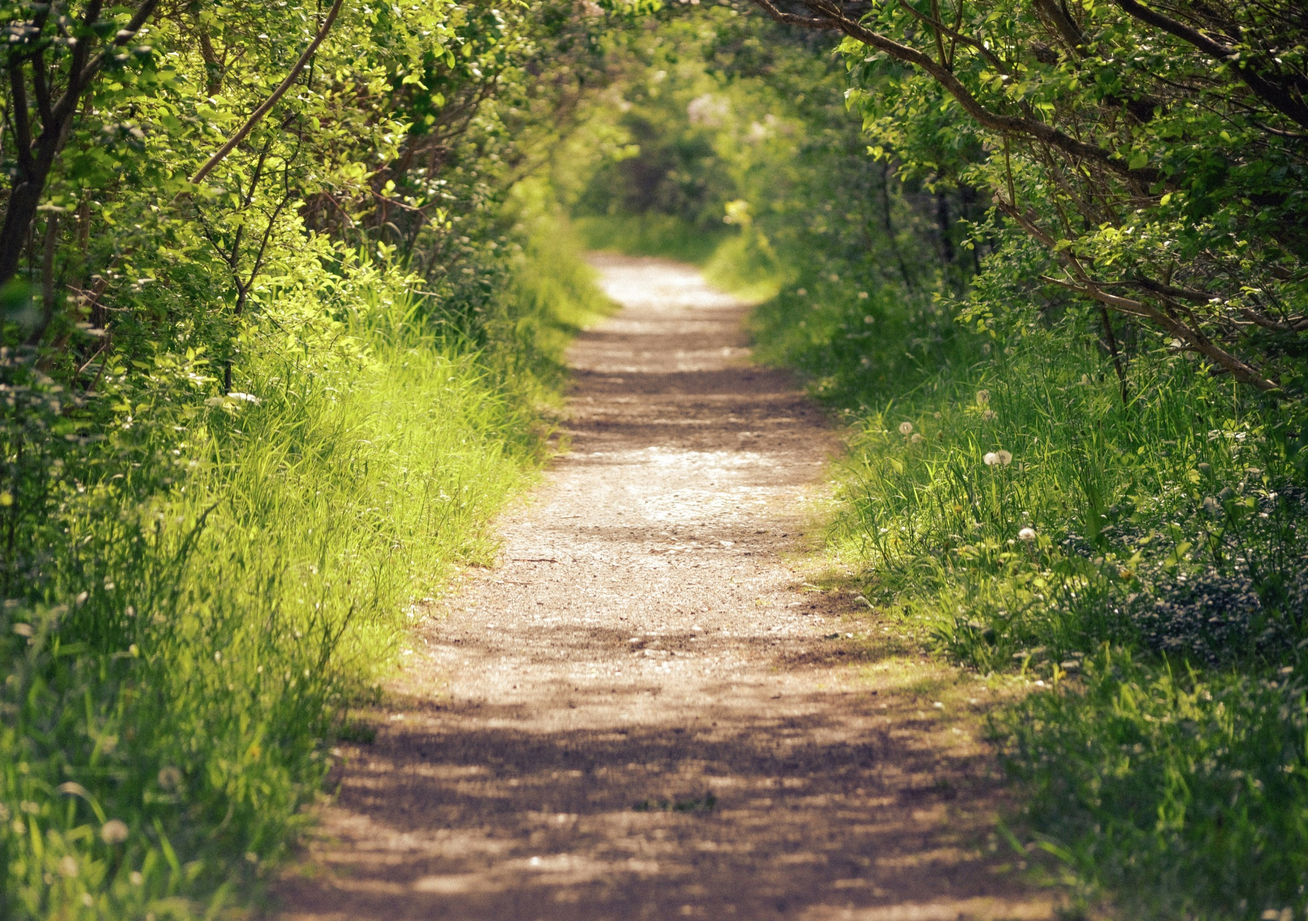
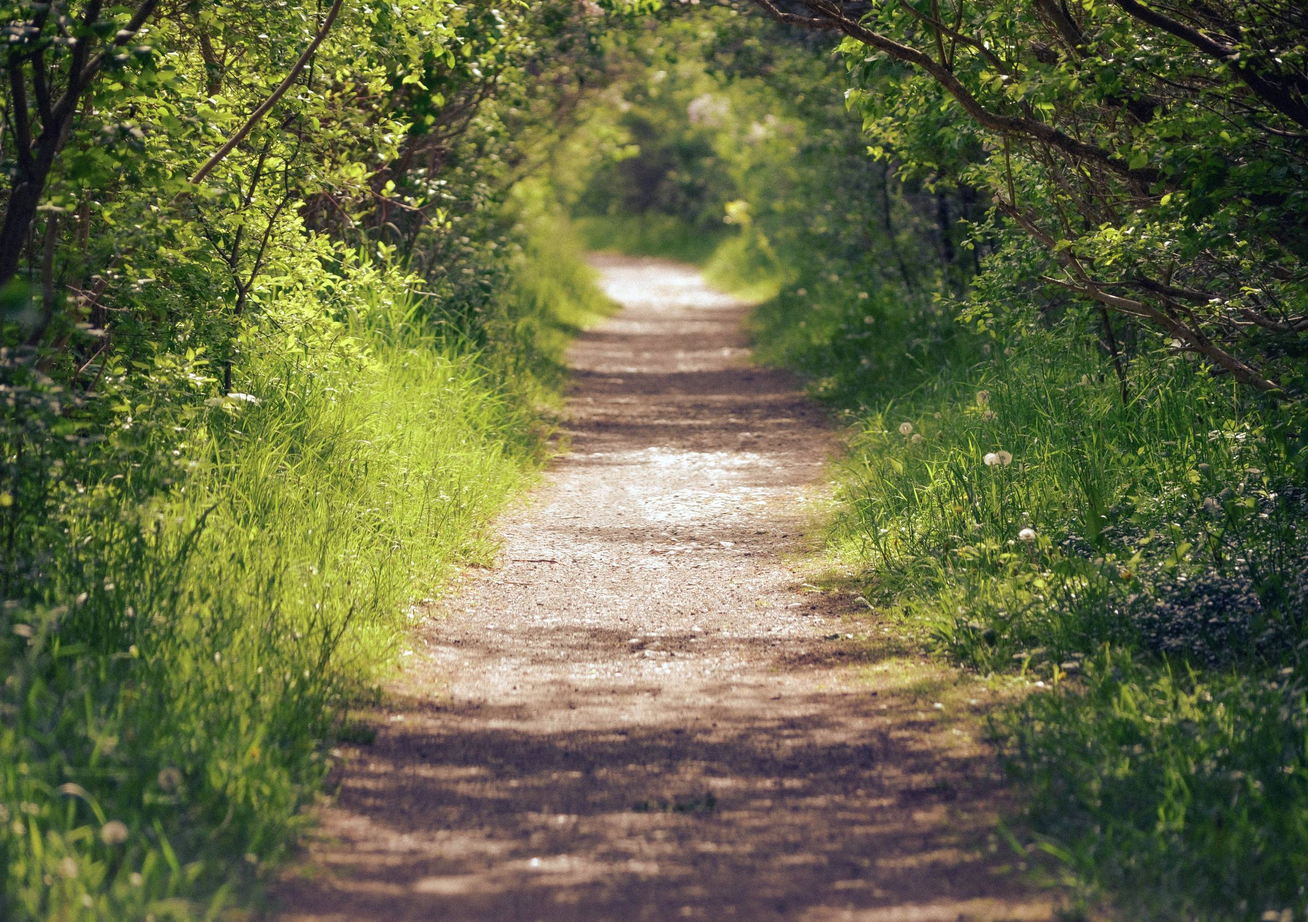
Figma colours for form background, right-side wave fade
- Bottom form photo colour-matched to the Figma fill adjustments
- Waves: Figma curves, right side fades from 80% of the width

diff --git a/index.html b/index.html
@@ -8,12 +8,12 @@
 <link rel="preconnect" href="https://fonts.googleapis.com">
 <link rel="preconnect" href="https://fonts.gstatic.com" crossorigin>
 <link href="https://fonts.googleapis.com/css2?family=DM+Sans:opsz,wght@9..40,400;9..40,500;9..40,600&family=Newsreader:opsz,wght@6..72,300;6..72,400&display=swap" rel="stylesheet">
-<link rel="stylesheet" href="css/tokens.css?v=202611270823">
-<link rel="stylesheet" href="css/images.css?v=202611270823">
-<link rel="stylesheet" href="css/components.css?v=202611270823">
-<link rel="stylesheet" href="css/player.css?v=202611270823">
-<link rel="stylesheet" href="css/sections.css?v=202611270823">
-<link rel="stylesheet" href="css/responsive.css?v=202611270823">
+<link rel="stylesheet" href="css/tokens.css?v=202611270837">
+<link rel="stylesheet" href="css/images.css?v=202611270837">
+<link rel="stylesheet" href="css/components.css?v=202611270837">
+<link rel="stylesheet" href="css/player.css?v=202611270837">
+<link rel="stylesheet" href="css/sections.css?v=202611270837">
+<link rel="stylesheet" href="css/responsive.css?v=202611270837">
 </head>
 <body>
 <div class="page">
@@ -272,12 +272,12 @@
   </div>
 </template>
 
-<script src="js/waves-data.js?v=202611270823"></script>
-<script src="js/waves.js?v=202611270823"></script>
+<script src="js/waves-data.js?v=202611270837"></script>
+<script src="js/waves.js?v=202611270837"></script>
 <script>window.HR_PLAYER_BARS = [9, 9, 10, 11, 12, 14, 17, 19, 22, 24, 26, 27, 28, 28, 28, 29, 30, 32, 34, 37, 39, 41, 43, 44, 46, 47, 48, 48, 44, 37, 26, 16, 11, 10, 10, 11, 13, 15, 18, 20, 23, 25, 27, 28, 28, 28, 28, 29, 31, 33, 35, 38, 40, 42, 44, 45, 46, 47, 48, 46, 41, 32, 21, 13, 10, 10, 11, 12, 14, 17, 19, 22, 24, 26, 27, 28, 28, 28, 29, 30, 32, 34, 37, 39, 41, 43, 44, 46, 47, 48, 48, 44, 37, 27, 16, 11, 10, 10, 11, 13, 15, 18, 20, 23, 25, 27, 28, 28, 28, 28, 29, 31, 33, 35, 38, 40, 42, 44, 45, 46, 47, 48, 46, 41, 31, 19, 12, 10, 10, 10, 10, 11, 11, 11, 10];</script>
-<script src="js/player.js?v=202611270823"></script>
-<script src="js/parallax.js?v=202611270823"></script>
-<script src="js/form.js?v=202611270823"></script>
-<script src="js/testimonial.js?v=202611270823"></script>
+<script src="js/player.js?v=202611270837"></script>
+<script src="js/parallax.js?v=202611270837"></script>
+<script src="js/form.js?v=202611270837"></script>
+<script src="js/testimonial.js?v=202611270837"></script>
 </body>
 </html>

diff --git a/js/waves.js b/js/waves.js
@@ -45,17 +45,11 @@
   // curve y in canvas coords = vy + ys[i] + frameTop (verified against the Figma render)
   function figmaY(l, i) { return l.vy + l.ys[i] + D.frameTop; }
 
-  // Vertical spread knob: 1 = exact Figma curves. Values above 1 open the strands
-  // further apart around the bundle's centre line at every x (shape is kept).
-  var SPREAD = 1;
-  var L = D.lines.length;
-  D.lines.forEach(function (l) { l.fy = new Array(N); });
-  for (var i = 0; i < N; i++) {
-    var m = 0;
-    D.lines.forEach(function (l) { m += figmaY(l, i); });
-    m /= L;
-    D.lines.forEach(function (l) { l.fy[i] = m + (figmaY(l, i) - m) * SPREAD; });
-  }
+  // Strand curves are exactly Figma's (fan / untwist experiments were rejected).
+  D.lines.forEach(function (l) {
+    l.fy = new Array(N);
+    for (var i = 0; i < N; i++) l.fy[i] = figmaY(l, i);
+  });
   function lineY(l, i) { return l.fy[i]; }
   D.lines.forEach(function (l) {
     var lo = Infinity, hi = -Infinity;

diff --git a/css/responsive.css b/css/responsive.css
@@ -11,11 +11,11 @@
 
 /* ---------- ≤1439: waves ----------
    Below 1440 the wave artwork keeps its size and is cropped at the sides, which
-   also crops its own edge fade. Fade the lines out at the screen edges instead. */
+   also crops its own edge fade. Fade the lines out at the screen edges instead (right side a bit further in). */
 @media (max-width: 1439px) {
   .listen__waves {
-    -webkit-mask-image: linear-gradient(to right, transparent 0, #000 15%, #000 85%, transparent 100%);
-            mask-image: linear-gradient(to right, transparent 0, #000 15%, #000 85%, transparent 100%);
+    -webkit-mask-image: linear-gradient(to right, transparent 0, #000 15%, #000 80%, transparent 100%);
+            mask-image: linear-gradient(to right, transparent 0, #000 15%, #000 80%, transparent 100%);
   }
 }
 

diff --git a/css/sections.css b/css/sections.css
@@ -49,6 +49,9 @@
 .listen__waves {
   position: absolute; left: 50%; top: calc(50% - 414px); width: 100vw; height: 788px;
   transform: translateX(-50%); pointer-events: none; z-index: 0;
+  /* the right side fades a little further in than the left (requested) */
+  -webkit-mask-image: linear-gradient(to right, #000 0, #000 80%, transparent 100%);
+          mask-image: linear-gradient(to right, #000 0, #000 80%, transparent 100%);
 }
 .listen__head, .listen__stage .player, .listen__cards, .listen__inner > .btn { position: relative; z-index: 1; }
 .listen__waves canvas { display: block; width: 100%; height: 100%; }

diff --git a/css/images.css b/css/images.css
@@ -9,5 +9,5 @@
   --img-hero: url("../assets/img/hero.jpg");        /* Hero background, 1440 x 938, subject on the right */
   --img-katie: url("../assets/img/katie.jpg");       /* About photo, 474 x 609 (portrait) */
   --img-lake: url("../assets/img/lake.jpg");        /* Small photo between About and Testimonial, 160 x 217 */
-  --img-form-bg: url("../assets/img/form-bg.jpg");     /* Bottom form section background, 1440 x ~1000 */
+  --img-form-bg: url("../assets/img/form-bg.jpg?v=202611270837");     /* Bottom form section background, 1440 x ~1000 */
 }
